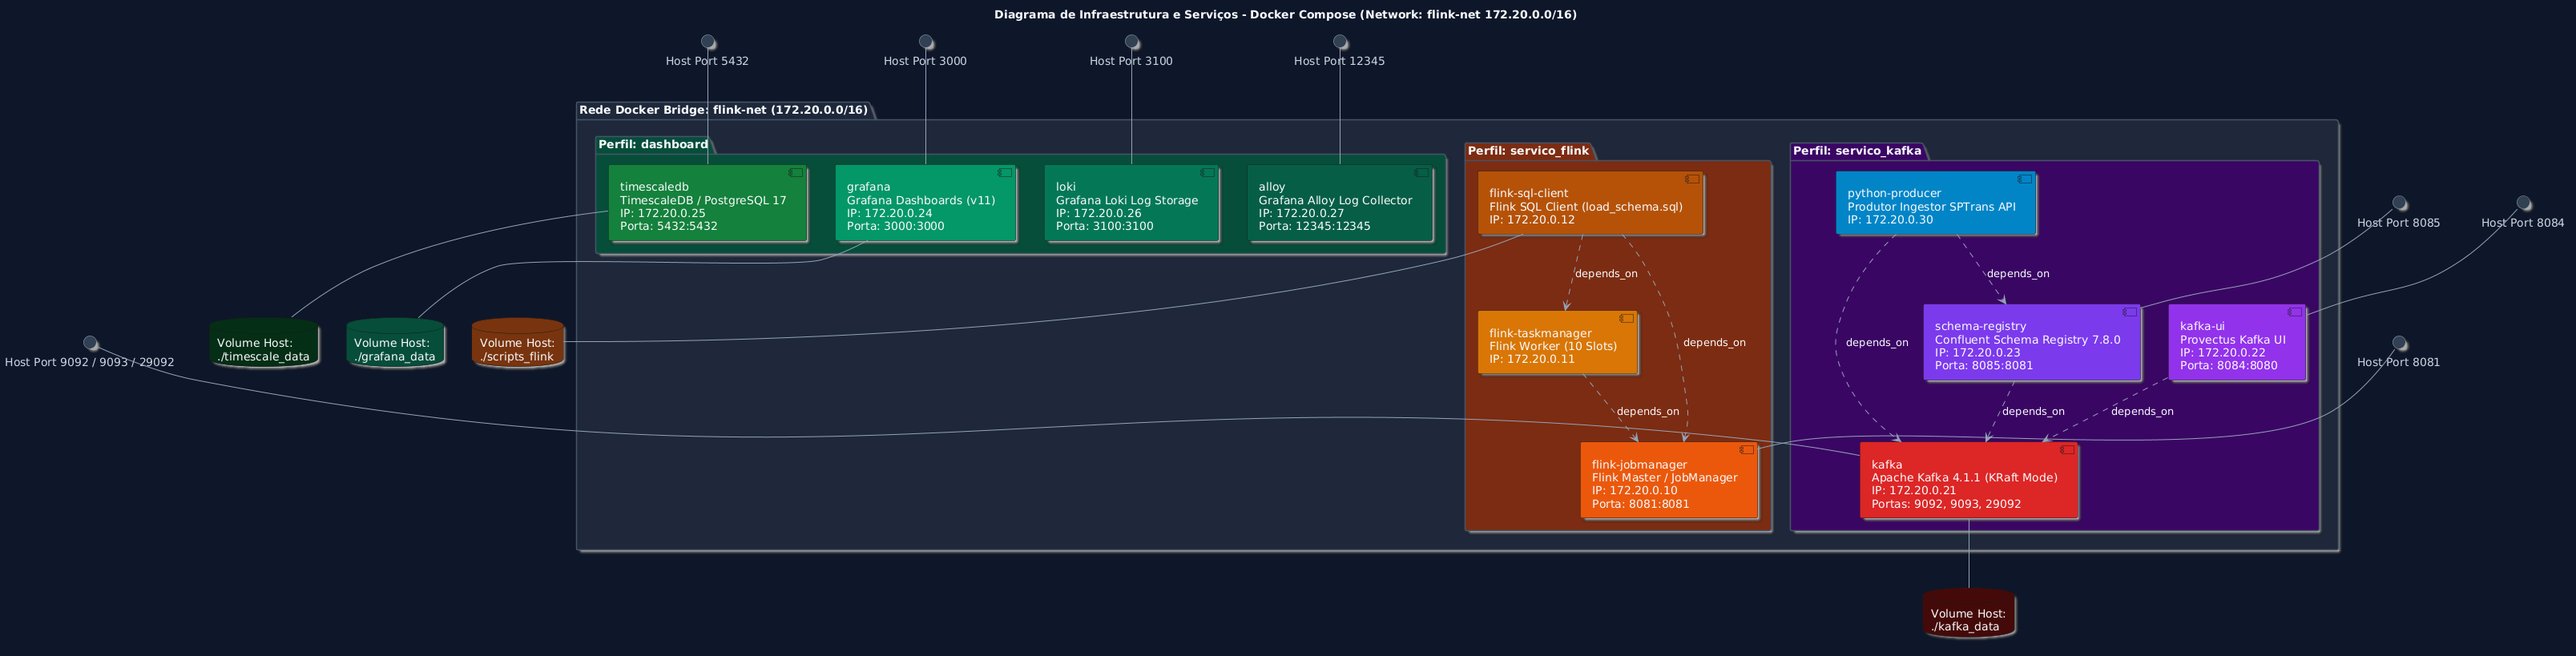
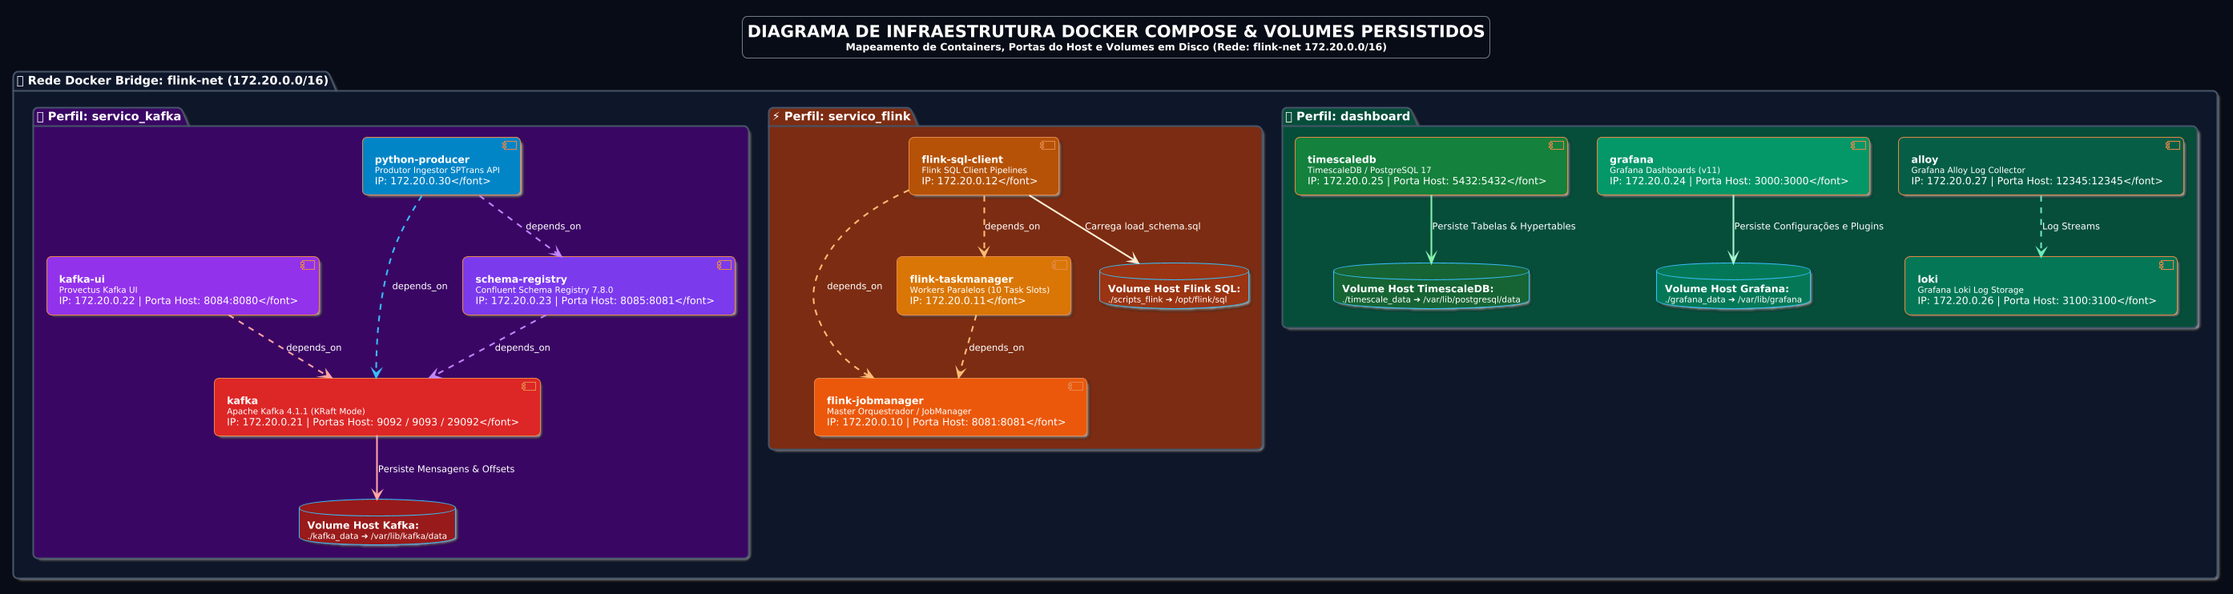
feat: docs

diff --git a/docs/arquitetura_projeto.md b/docs/arquitetura_projeto.md
@@ -3,7 +3,7 @@
 
 ---
 
-### 🏛 Diagrama de Arquitetura em PlantUML (Fonte Branca `#ffffff`)
+### 🏛 Diagrama de Arquitetura em PlantUML (Layout Organizado)
 
 ```plantuml
 @startuml
@@ -104,31 +104,26 @@ rectangle "<b><font color=#ffffff>📊 6. VISUALIZAÇÃO & OBSERVABILIDADE (GRAF
 }
 
 ' ==============================================================================
-' CONEXÕES E FLUXO DE DADOS COM SETAS E TEXTO BRANCO
+' FLUXO DE DADOS SEQUENCIAL ALINHADO
 ' ==============================================================================
 
-sptrans_api -[#38bdf8,bold]-> python_prod : <color:#ffffff>1. Polling GET /Posicao</color>
-python_prod <-[#c084fc,bold]-> schema_reg : <color:#ffffff>2. Valida AVRO Schema</color>
-python_prod -[#f87171,bold]-> topic_posicoes : <color:#ffffff>3. Publish Eventos AVRO</color>
+sptrans_api -[#38bdf8,bold]-> python_prod : <color:#ffffff>1. GET /Posicao</color>
+python_prod <-[#c084fc,bold]-> schema_reg : <color:#ffffff>2. AVRO Schema</color>
+python_prod -[#f87171,bold]-> topic_posicoes : <color:#ffffff>3. Eventos AVRO</color>
 python_prod .[#fca5a5,dashed].> topic_dlq : <color:#ffffff>Desvio DLQ</color>
 
-topic_posicoes -[#fb923c,bold]-> flink_sql : <color:#ffffff>4. Ingestão Streaming Event-Time</color>
-flink_jm -[#fdba74,dashed]-> flink_tm : <color:#ffffff>Gerencia Slots e Checkpoints</color>
-flink_sql -[#fb923c,bold]-> flink_tm : <color:#ffffff>Executa Janelas de 1 min</color>
+topic_posicoes -[#fb923c,bold]-> flink_sql : <color:#ffffff>4. Event-Time Stream</color>
+flink_jm .[#fdba74,dashed].> flink_tm : <color:#ffffff>Checkpoints</color>
+flink_sql -[#fb923c,bold]-> flink_tm : <color:#ffffff>Janelas 1 min</color>
 
-flink_tm -[#4ade80,bold]-> timescale_db : <color:#ffffff>5. Sink Estado & Hypertables</color>
+flink_tm -[#4ade80,bold]-> timescale_db : <color:#ffffff>5. Sink Hypertables</color>
 
-timescale_db -[#34d399,bold]-> grafana : <color:#ffffff>6. Consultas SQL Nativas\n- KPIs & Comboiamento CCO\n- Geomap Rota shapes GTFS</color>
+timescale_db -[#34d399,bold]-> grafana : <color:#ffffff>6. Consultas SQL CCO</color>
 
-kafka_broker .[#e2e8f0,dashed].> alloy : <color:#ffffff>Logs</color>
-flink_jm .[#e2e8f0,dashed].> alloy : <color:#ffffff>Logs</color>
-timescale_db .[#e2e8f0,dashed].> alloy : <color:#ffffff>Logs</color>
-schema_reg .[#e2e8f0,dashed].> alloy : <color:#ffffff>Logs</color>
+alloy -[#6ee7b7,bold]-> loki : <color:#ffffff>Logs Container</color>
+loki -[#6ee7b7,bold]-> grafana : <color:#ffffff>7. LogQL</color>
 
-alloy -[#6ee7b7,bold]-> loki : <color:#ffffff>Stream Formatado</color>
-loki -[#6ee7b7,bold]-> grafana : <color:#ffffff>7. LogQL Analytics</color>
-
-kafka_ui .[#fca5a5,dashed].> kafka_broker : <color:#ffffff>Monitora Cluster</color>
+kafka_ui .[#fca5a5,dashed].> kafka_broker : <color:#ffffff>UI Monitor</color>
 
 @enduml
 ```
